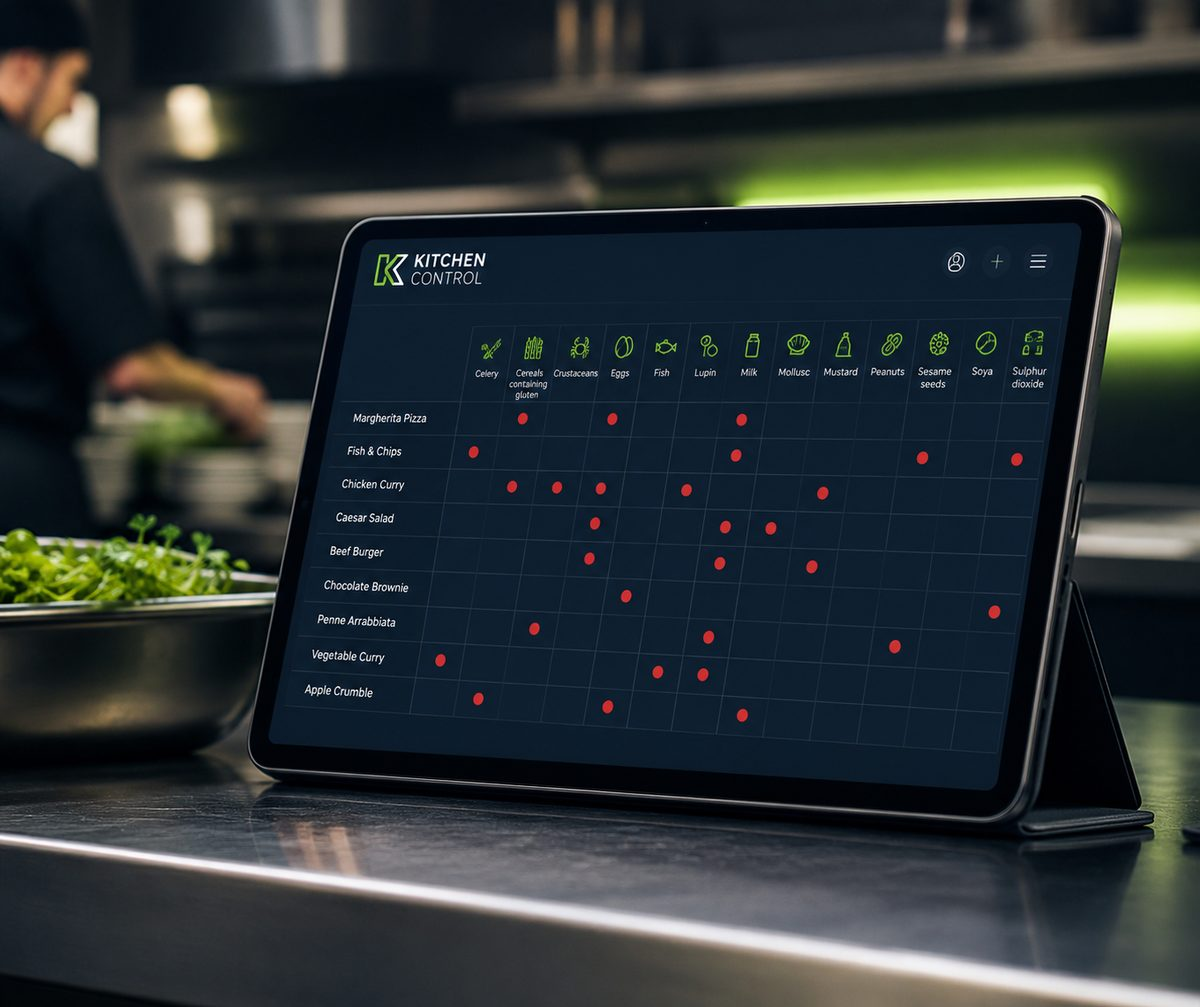
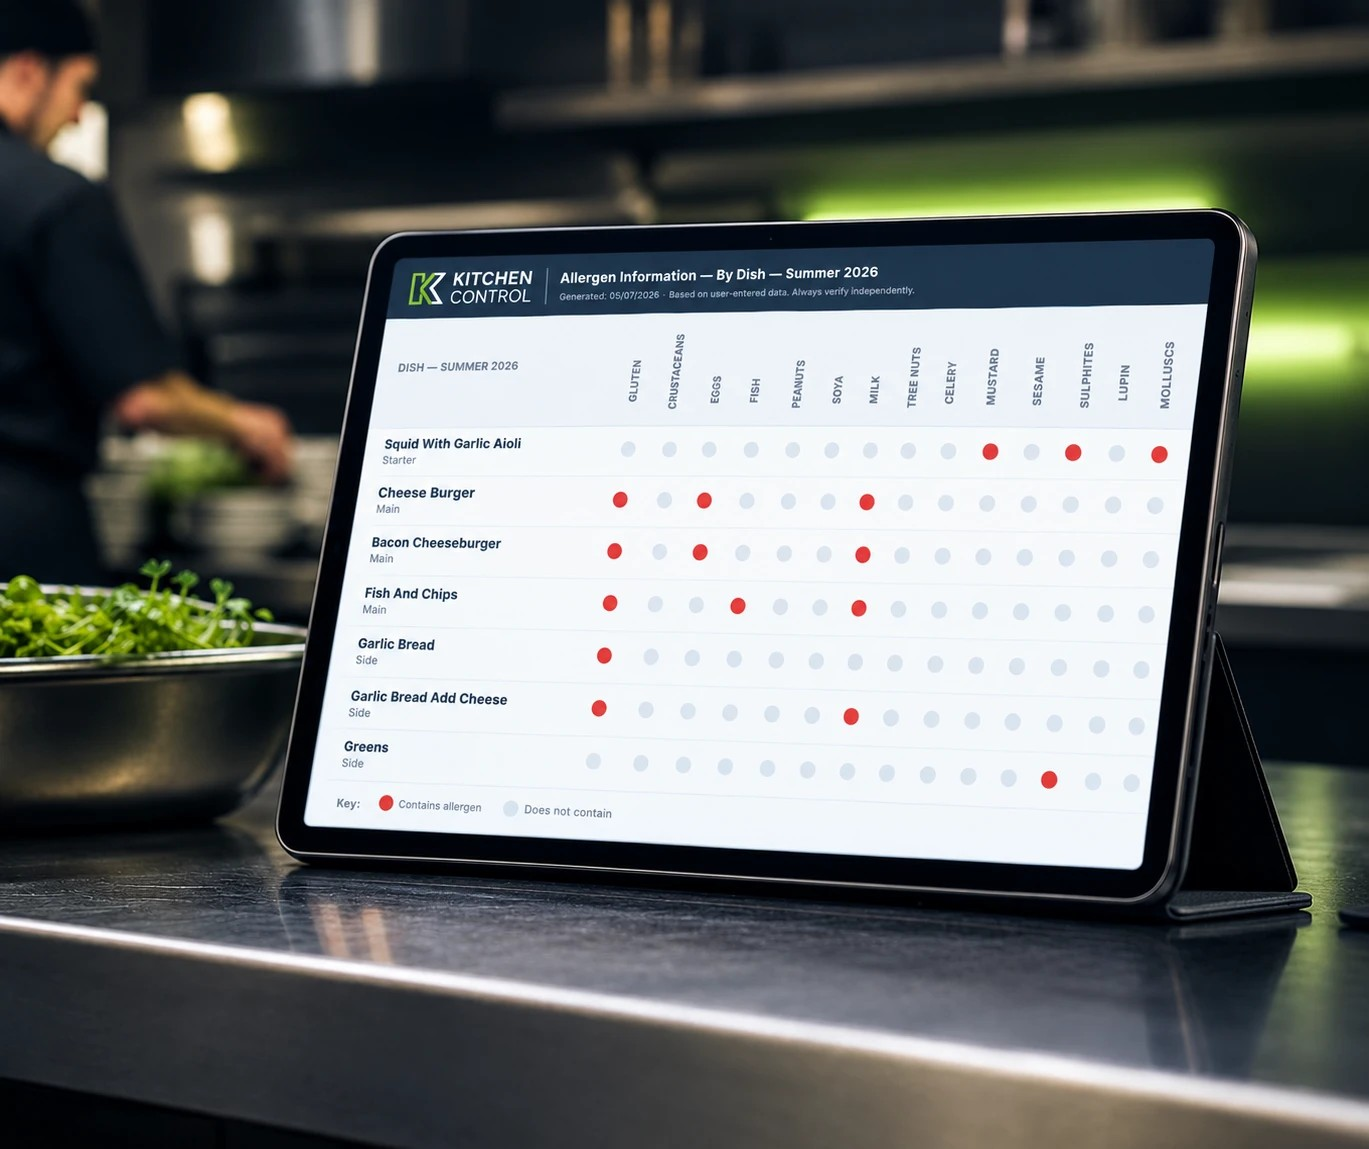
Use provided composite for hero-allergen.jpg
Replaces the previous mockup with a properly composited real allergen
matrix screenshot on the tablet, supplied directly rather than
generated in-session. Updated width/height attributes to match the
new image's actual dimensions (1369x1149).

Claude-Session: https://claude.ai/code/session_01VgNxbk2TzDtd7yEddZFVh8

diff --git a/index.html b/index.html
@@ -789,7 +789,7 @@ footer a:hover { color: var(--green-light); }
     <div class="hero-visual">
       <div class="hero-frame">
         <div class="hero-chip">14 allergens &middot; tracked automatically</div>
-        <img class="hero-img" src="/images/hero-allergen.jpg" alt="Kitchen Control allergen matrix on a tablet in a professional kitchen" width="1200" height="1007" fetchpriority="high">
+        <img class="hero-img" src="/images/hero-allergen.jpg" alt="Kitchen Control's actual allergen matrix, generated automatically, shown on a tablet in a professional kitchen" width="1369" height="1149" fetchpriority="high">
         <div class="hero-logo-plate"><img src="logo.png" alt="Kitchen Control" width="1119" height="312"></div>
       </div>
       <p class="hero-caption">The allergen matrix, generated automatically from your live recipe data.</p>
